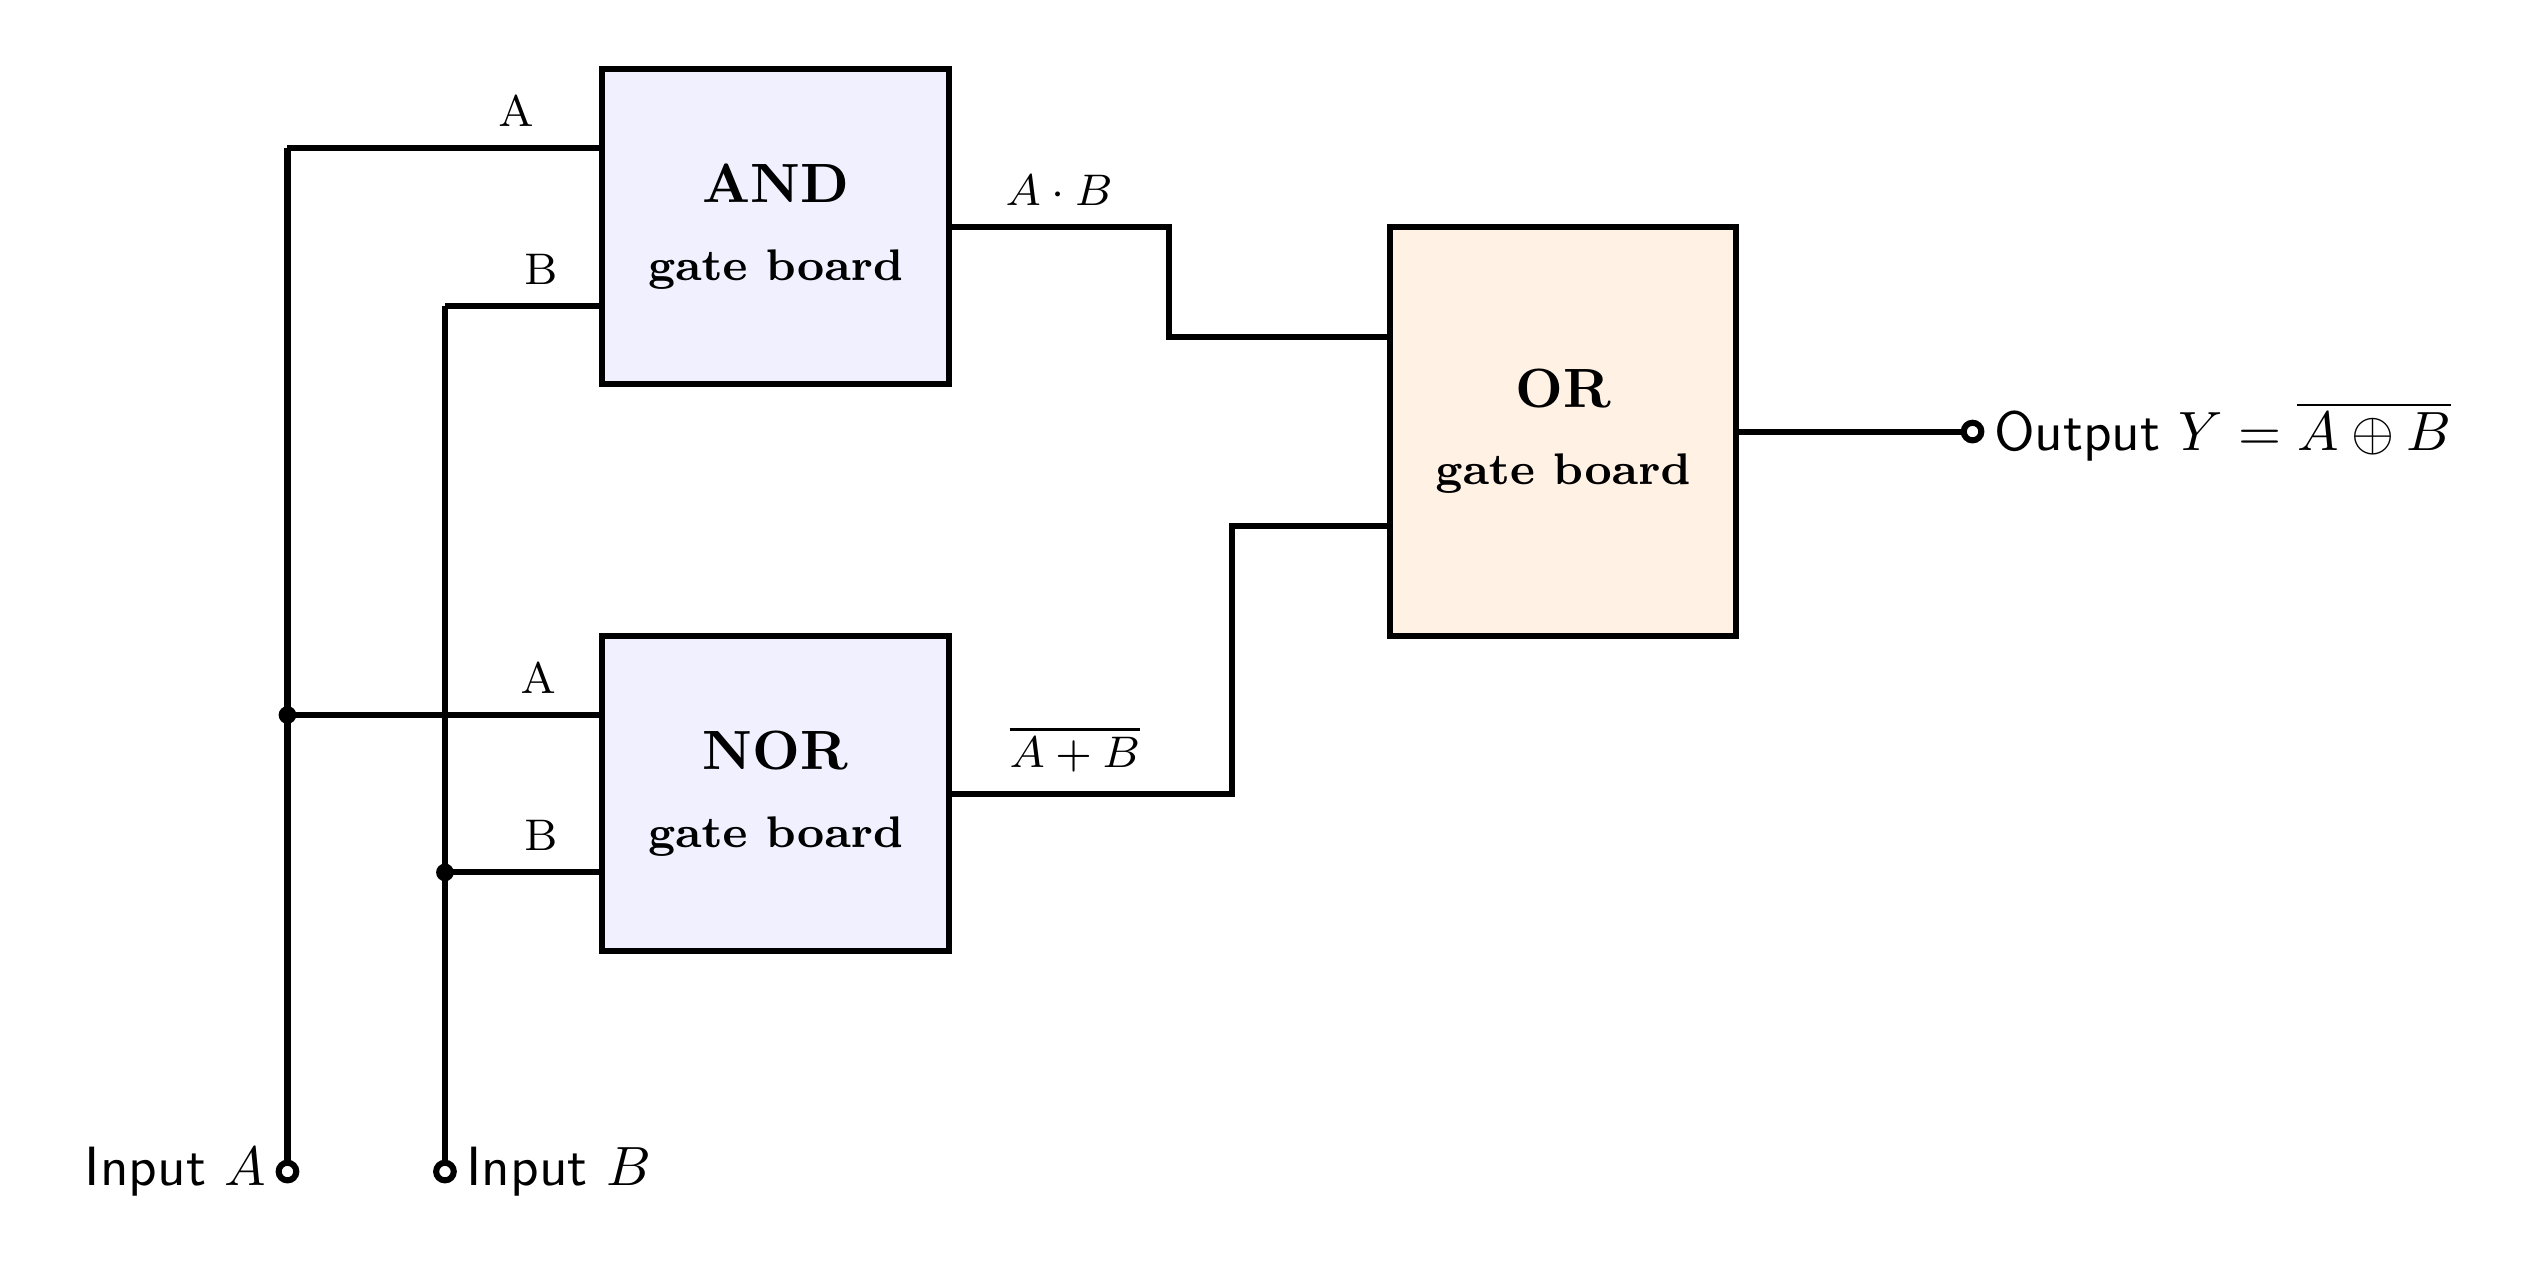
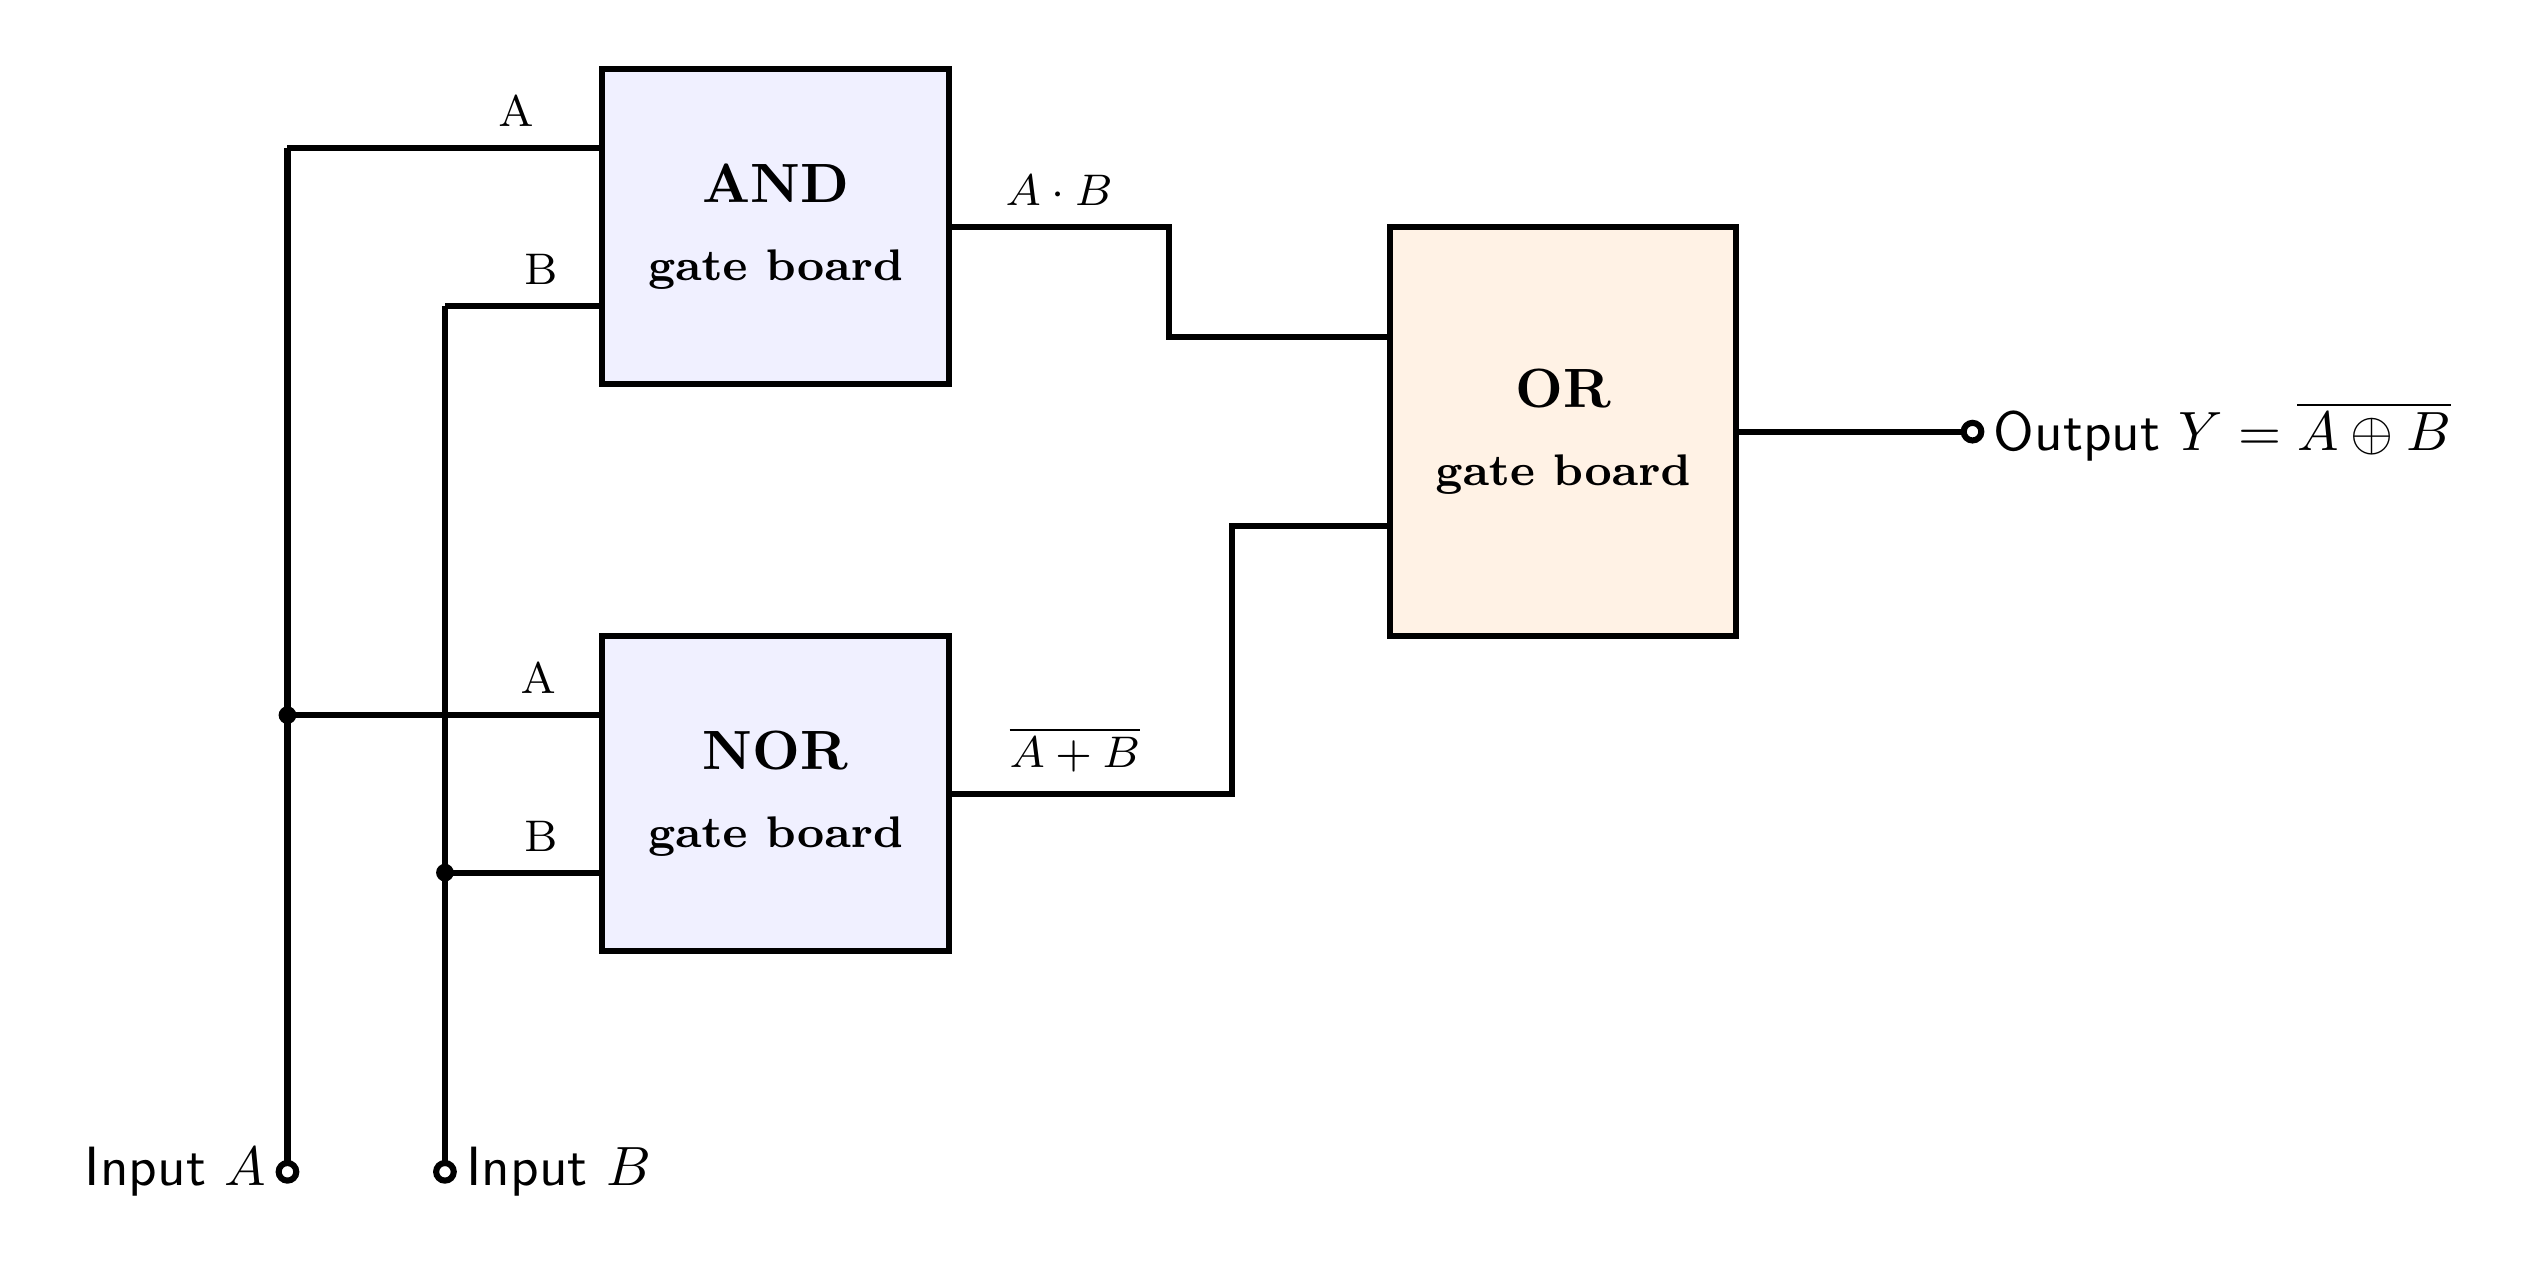
fix the designs

Changed region(s): [[0.9034, 0.3123, 0.9657, 0.3435]]

diff --git a/circuit.tex b/circuit.tex
@@ -21,7 +21,7 @@
 }}
 \begin{document}
 \begin{circuitikz}[line width=1.1pt, scale=1.15, transform shape]
-  \ctikzset{tripoles/thickness=1, bipoles/thickness=1, logic ports/thickness=1.1}
+  \ctikzset{tripoles/thickness=1, bipoles/thickness=1, logic ports/thickness=1}
 
   % ---------- gates ----------
   \node[and port] (g1) at (4,3.6) {};

diff --git a/symbol.tex b/symbol.tex
@@ -4,7 +4,7 @@
 \usepackage{circuitikz}
 \begin{document}
 \begin{circuitikz}[line width=1.1pt, scale=1.4, transform shape]
-  \ctikzset{tripoles/thickness=1, bipoles/thickness=1, logic ports/thickness=1.1}
+  \ctikzset{tripoles/thickness=1, bipoles/thickness=1, logic ports/thickness=1}
   \node[xnor port] (g) {};
   \draw (g.in 1) -- ++(-1,0) node[left]{$A$};
   \draw (g.in 2) -- ++(-1,0) node[left]{$B$};

diff --git a/wiring.tex b/wiring.tex
@@ -22,7 +22,7 @@
 }}
 \begin{document}
 \begin{tikzpicture}[line width=1.1pt, font=\sffamily]
-  \ctikzset{tripoles/thickness=1, bipoles/thickness=1, logic ports/thickness=1.1}
+  \ctikzset{tripoles/thickness=1, bipoles/thickness=1, logic ports/thickness=1}
 
   % ---------- the three sub-gate boards ----------
   \draw[fill=blue!6] (3.0,4.3) rectangle (5.2,6.3);